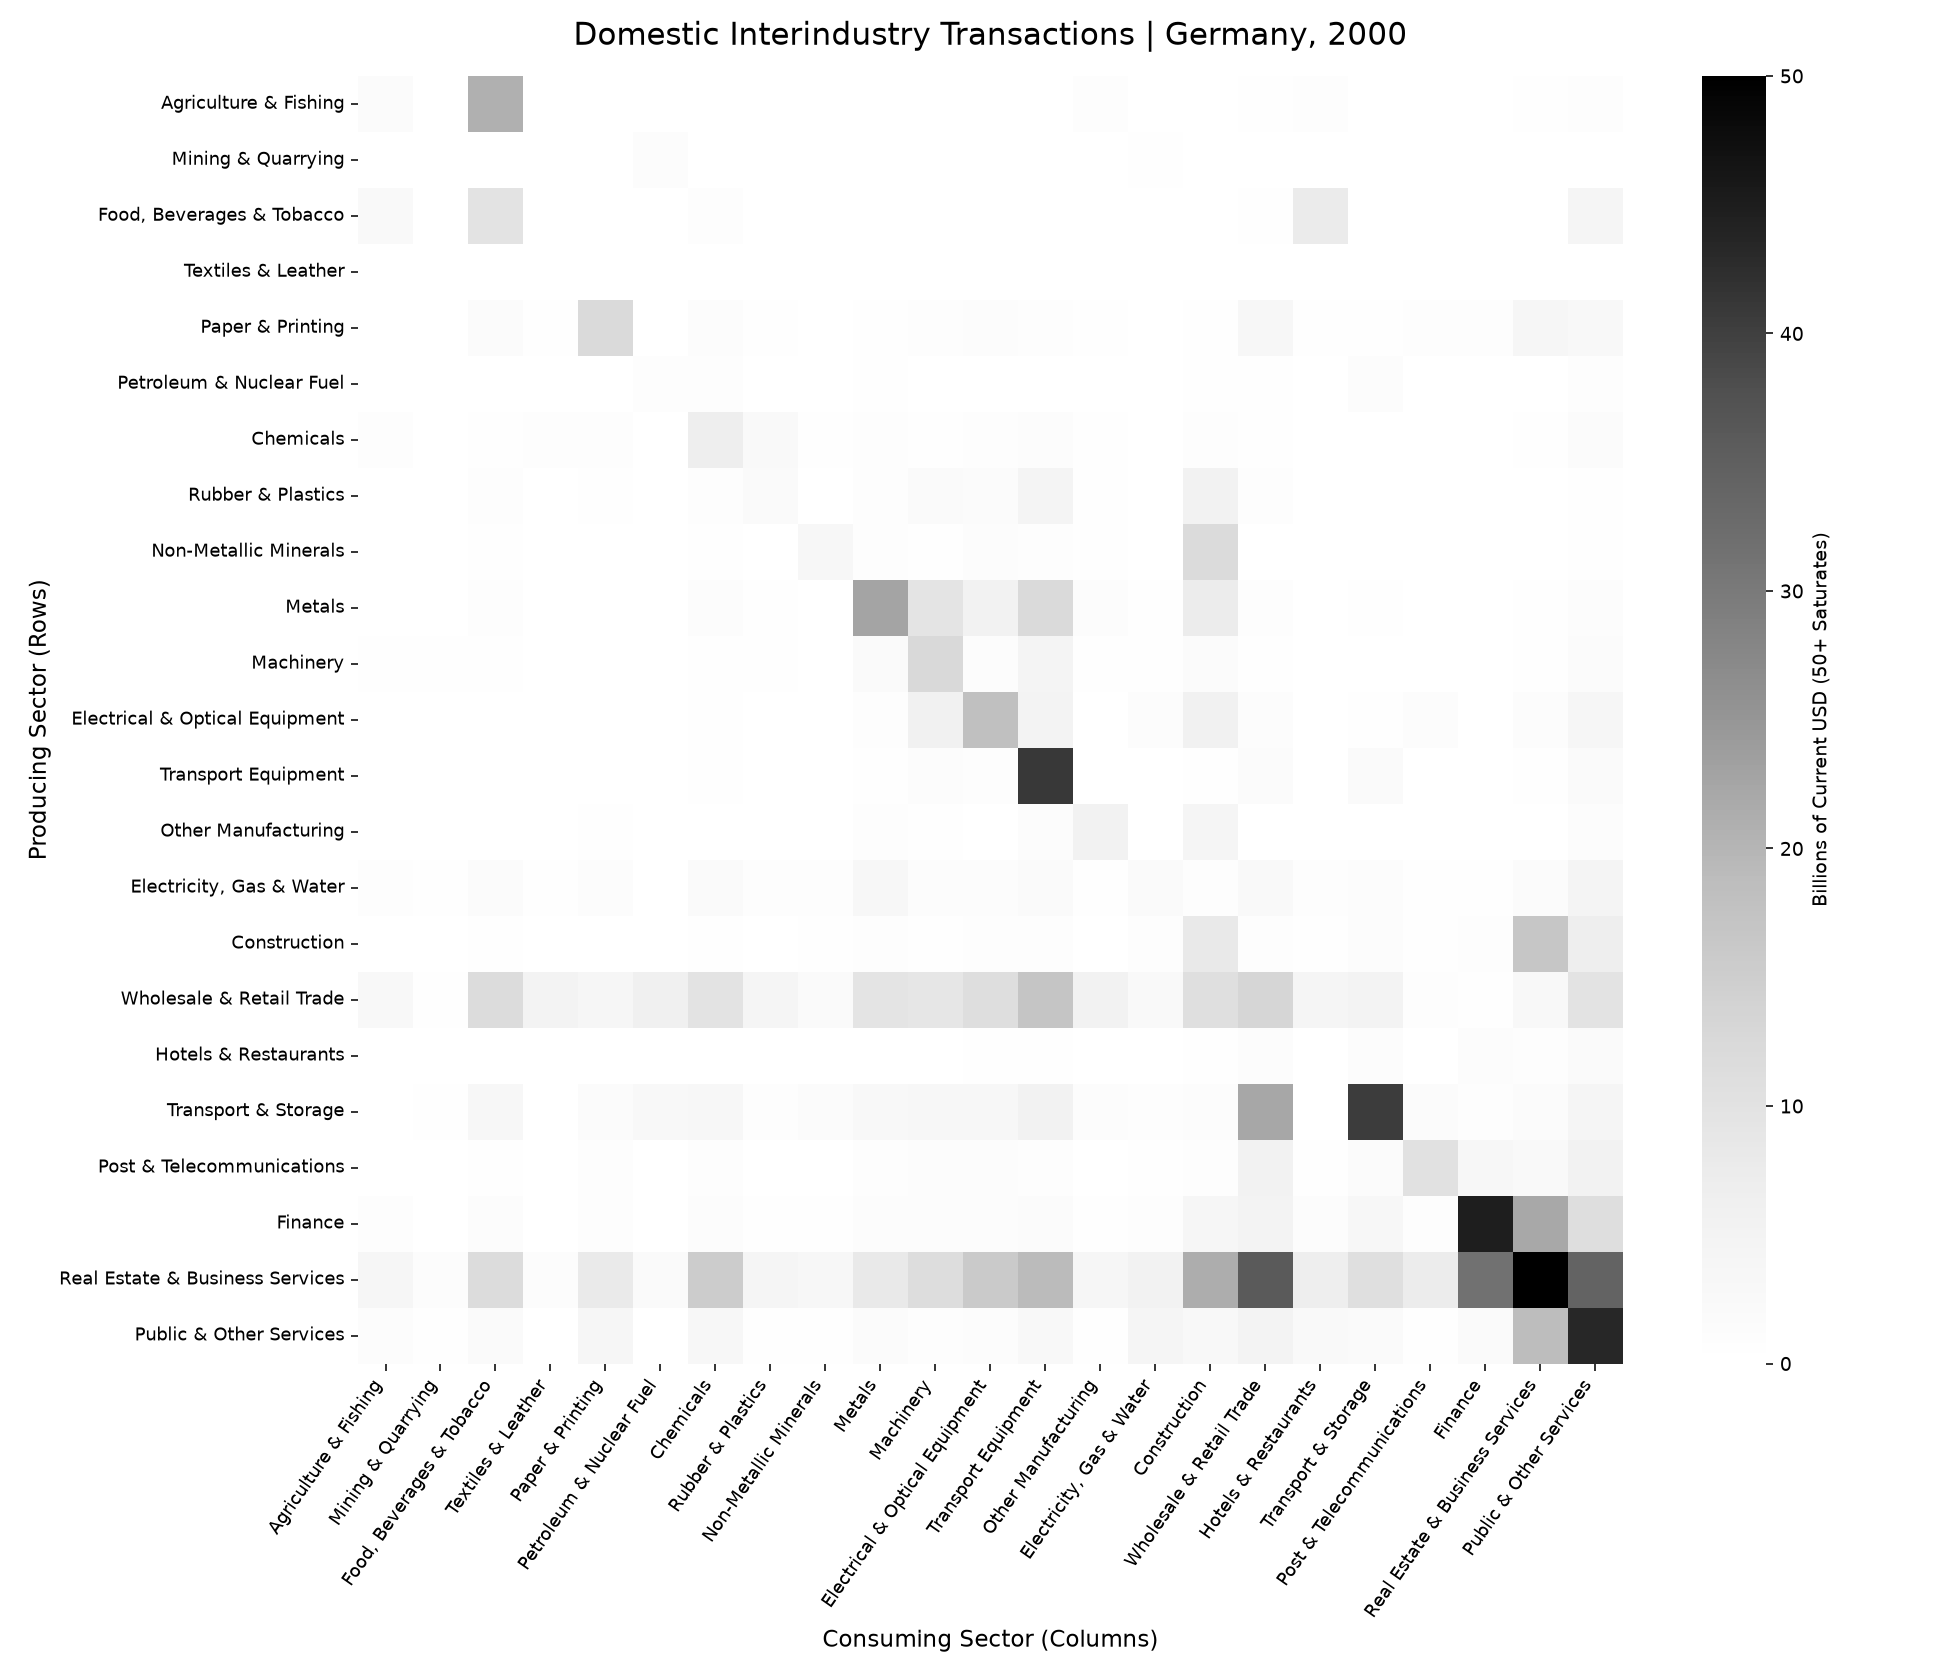
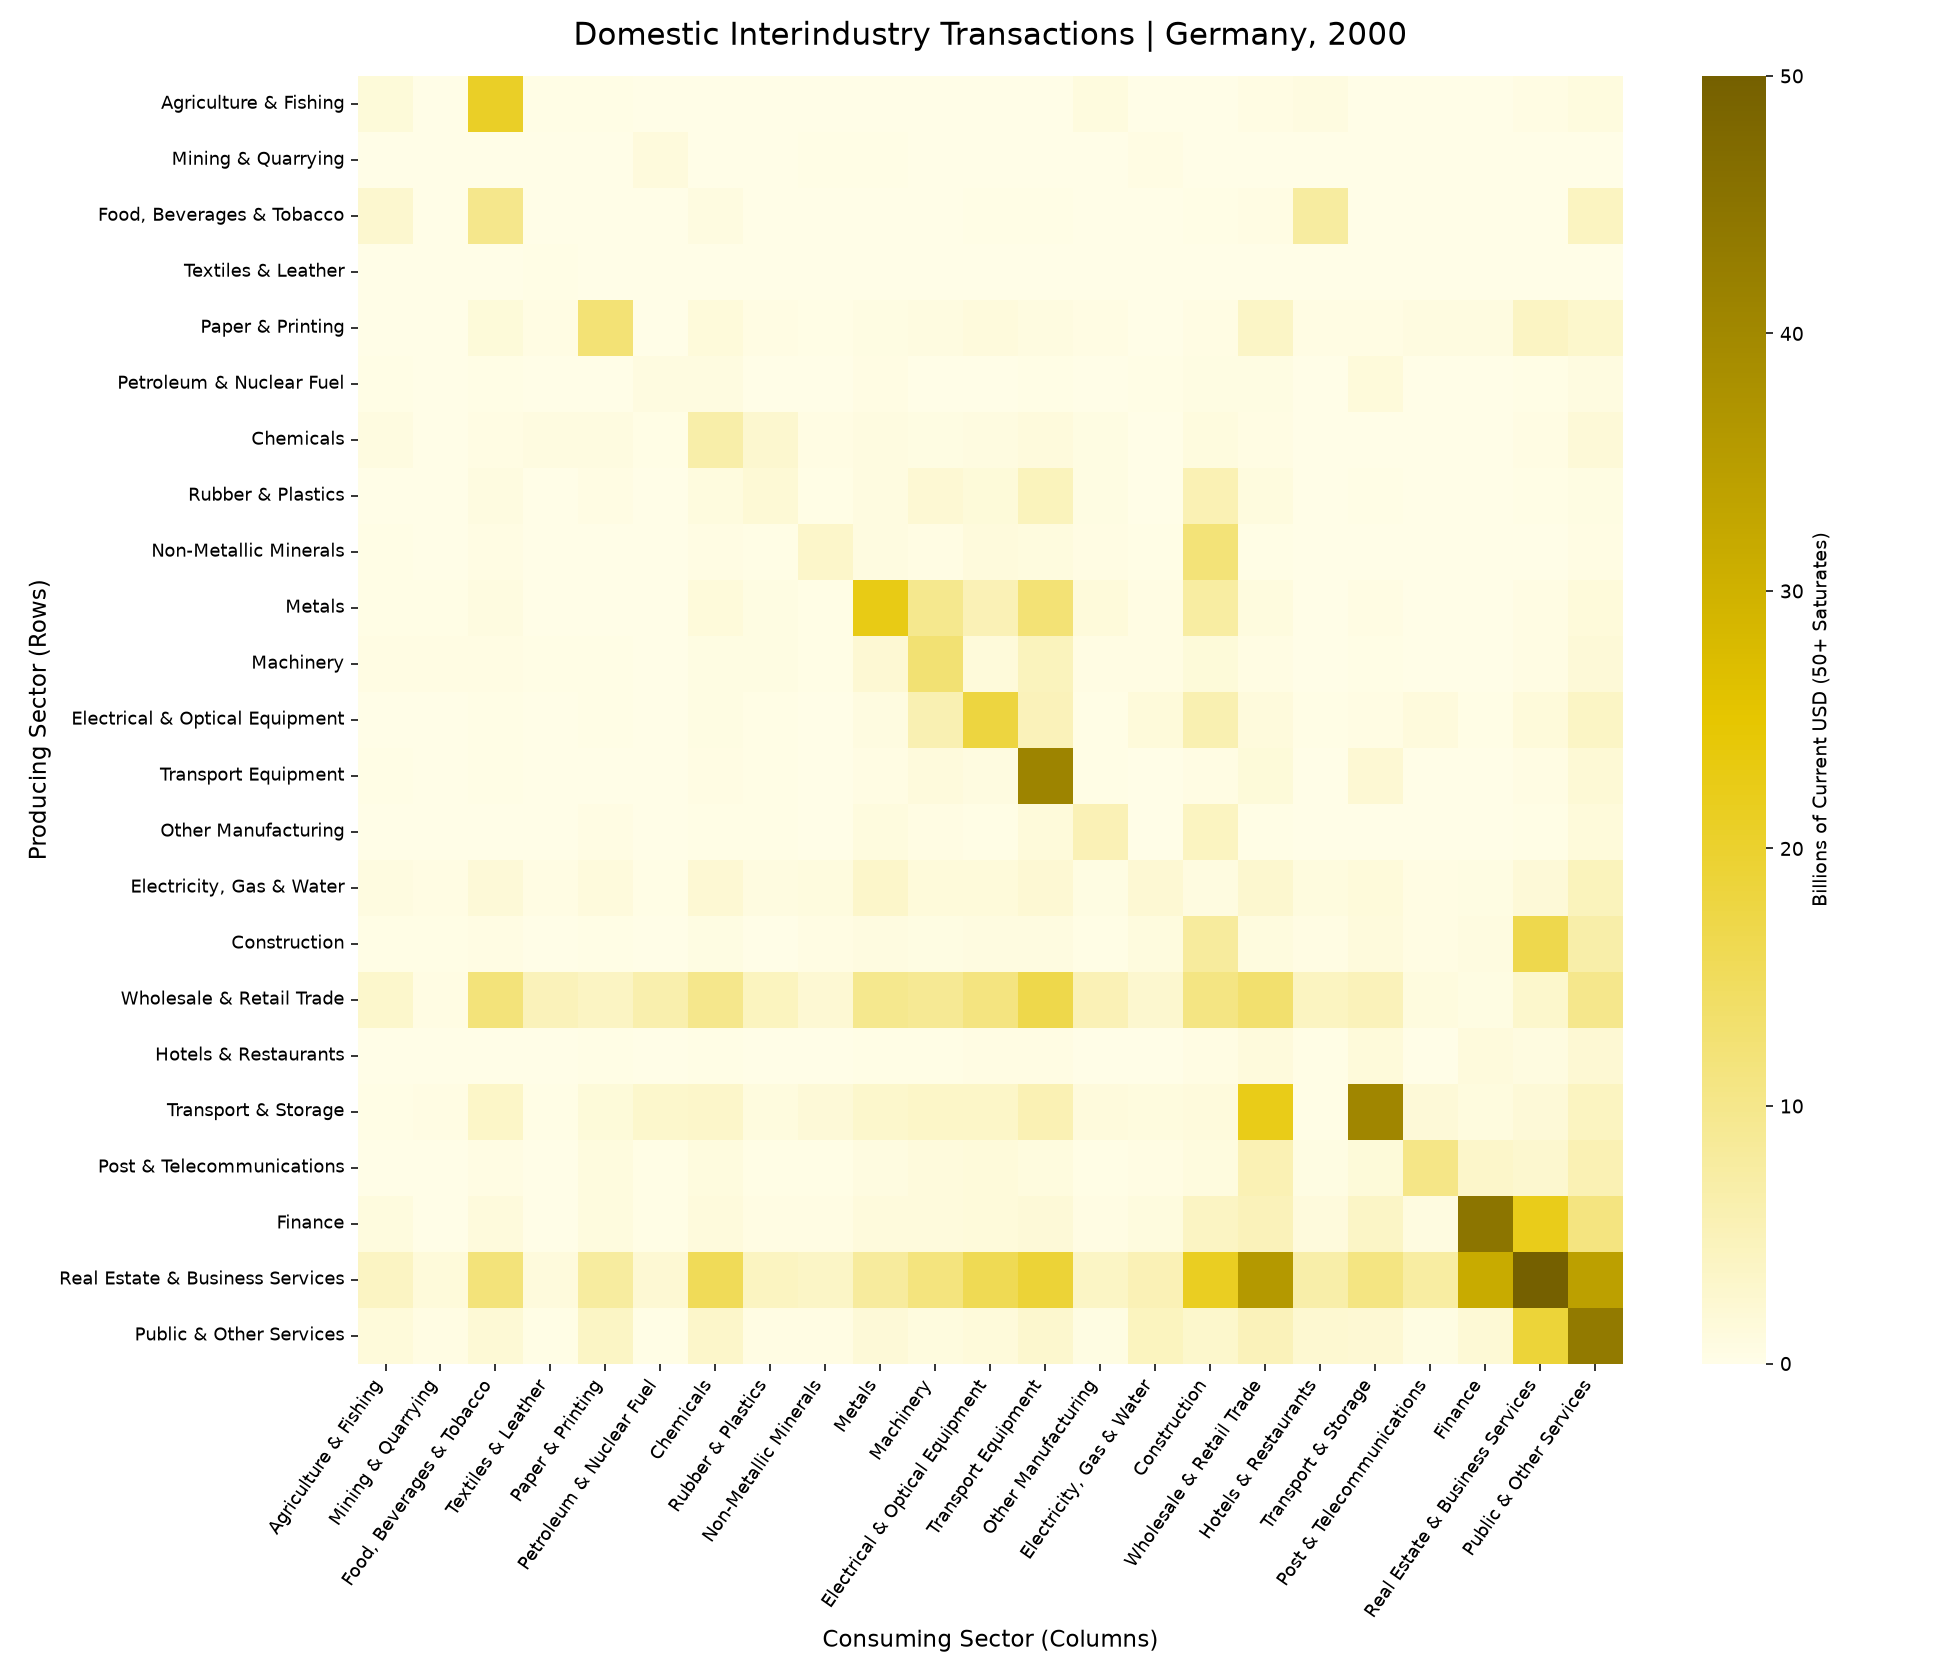
Use gold palette for Germany heatmap

diff --git a/docs/render_showcase.py b/docs/render_showcase.py
@@ -38,7 +38,7 @@ def main():
     data = pd.read_csv(ROOT / 'lr_wiod_wiot_wide.csv')
     codes = list(SECTORS)
     for country, name, palette in [('USA', 'USA', 'Greens'), ('CHN', 'China', 'Reds'),
-                                    ('DEU', 'Germany', 'Greys')]:
+                                    ('DEU', 'Germany', 'GermanyGold')]:
         context['heatmap'](country, 2000, vmin=0, vmax=50)
         fig = plt.gcf()
         ax = fig.axes[0]
@@ -49,6 +49,8 @@ def main():
         np.testing.assert_allclose(np.asarray(mesh.get_array()).reshape(23, 23), expected)
         if country == 'CHN':
             palette = LinearSegmentedColormap.from_list('ChinaRed', ['#fff7f7', '#df5555', '#790000'])
+        elif country == 'DEU':
+            palette = LinearSegmentedColormap.from_list('GermanyGold', ['#fffde7', '#e6c600', '#756000'])
         mesh.set_cmap(palette)
         mesh.colorbar.set_label('Billions of Current USD (50+ Saturates)')
         fig.set_size_inches(14, 12)

diff --git a/docs/reading-the-charts.md b/docs/reading-the-charts.md
@@ -19,7 +19,7 @@ The pooled charts display **trillions of current USD**: the stored totals in bil
 
 For each sector, pooled producer sales sum its domestic row across all 25 countries and all 36 years (1965-2000); pooled consumer purchases do the same with its domestic column. Combined equals `(pooled producer + pooled consumer) / 2`. Adding the two instead would double every combined bar without changing the ranking. An average of the country/year scores across the full panel would instead equal the pooled combined total divided by `25 * 36 * 23`, in billions per partner sector per country-year.
 
-The label "Public & Other Services" abbreviates the source's public administration, education, health, and other services sector. The pooled rankings appear first in the README gallery, followed by notebook heatmap queries for USA, China, and Germany in 2000. The country/year averages bar chart remains available locally but is not displayed in the README. All three heatmaps share a linear 0-50 billion USD scale and sector ordering; values above 50 billion saturate. Green, red, and gray palettes identify USA, China, and Germany respectively.
+The label "Public & Other Services" abbreviates the source's public administration, education, health, and other services sector. The pooled rankings appear first in the README gallery, followed by notebook heatmap queries for USA, China, and Germany in 2000. The country/year averages bar chart remains available locally but is not displayed in the README. All three heatmaps share a linear 0-50 billion USD scale and sector ordering; values above 50 billion saturate. Green, red, and gold palettes identify USA, China, and Germany respectively.
 
 ## Sector linkage chart (modeling notebook)
 

diff --git a/README.md b/README.md
@@ -85,9 +85,9 @@ All three use **the same sector order and linear $0-50 billion scale**. Light me
 
 #### Germany, 2000
 
-![Germany domestic interindustry transactions in 2000, with a light-to-dark gray scale from 0 to 50 billion current USD](docs/images/heatmap-deu-2000.png)
+![Germany domestic interindustry transactions in 2000, with a light-to-dark gold scale from 0 to 50 billion current USD](docs/images/heatmap-deu-2000.png)
 
-*Grayscale, drawing on black in Germany's flag, identifies the European example. Compare Metals, Machinery, and Transport Equipment relationships across the three countries.*
+*Gold, drawing on Germany's flag, identifies the European example. Compare Metals, Machinery, and Transport Equipment relationships across the three countries.*
 
 Together, the pooled rankings summarize transaction scale across the full dataset, while these heatmaps reveal the individual country/year relationships from which we build economic-structure features. [More on chart units and interpretation](docs/reading-the-charts.md).
 
